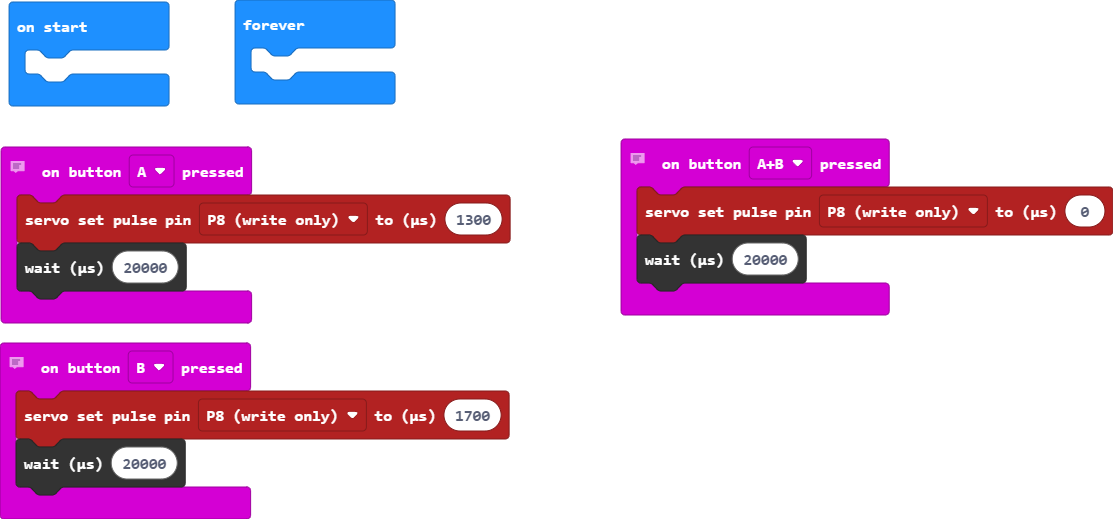
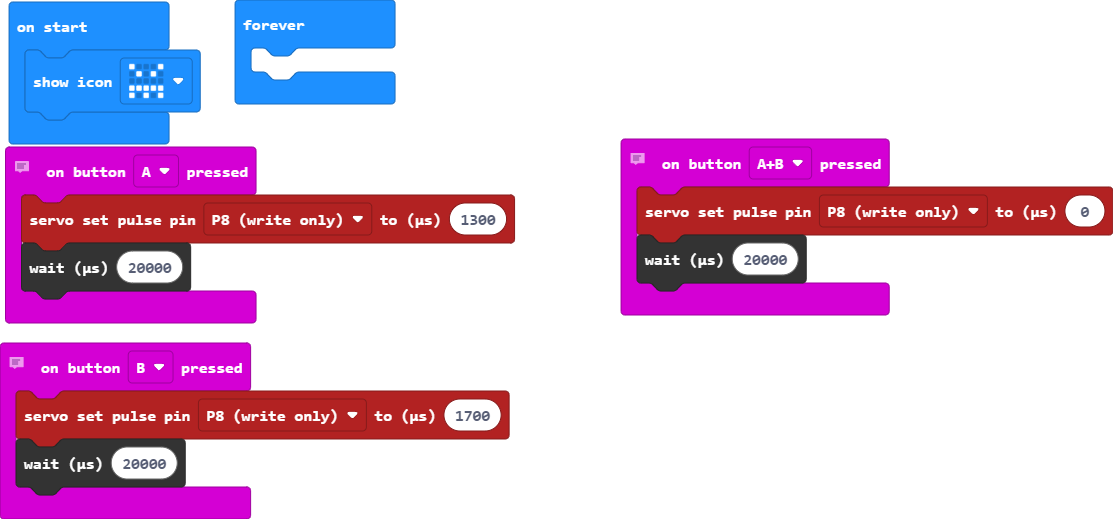
Update main.blocks, main.ts

Changed region(s): [[0.0, 0.0925, 0.4888, 0.6166], [0.2138, 0.5549, 0.2444, 0.6166]]

diff --git a/main.ts b/main.ts
@@ -13,6 +13,7 @@ input.onButtonPressed(Button.B, function () {
     pins.servoSetPulse(AnalogPin.P8, 1700)
     control.waitMicros(20000)
 })
+basic.showIcon(IconNames.Angry)
 basic.forever(function () {
 	
 })
